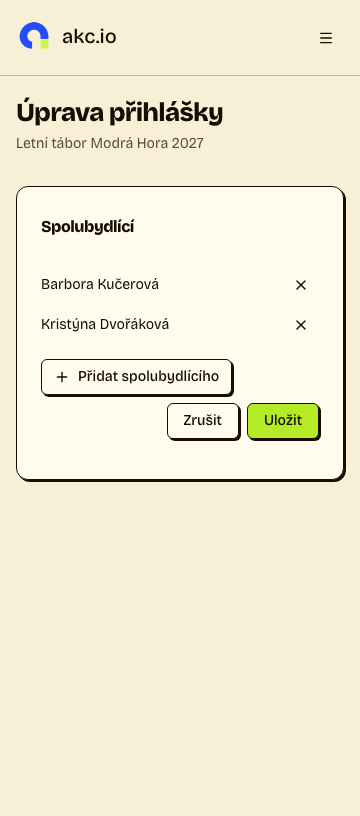
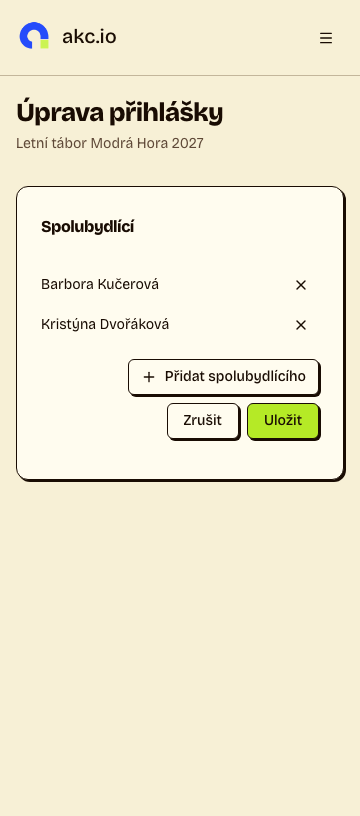
fix(registrations): keep the wrapped add button on the right (S4-05)
On a narrow screen "Přidat spolubydlícího" wraps above "Zrušit" and "Uložit"
and now aligns right with them. Mobile screenshot retaken.

Changed region(s): [[0.1222, 0.4289, 0.9167, 0.4902]]

diff --git a/apps/frontend/src/features/registrations/components/RoommateWishesCard.tsx b/apps/frontend/src/features/registrations/components/RoommateWishesCard.tsx
@@ -194,7 +194,8 @@ function WishesForm({ registrationId, data, selected, onChange, onDone }: Wishes
       {save.isError ? (
         <FormError message="Spolubydlící se nepodařilo uložit. Výběr zůstává, zkuste to prosím znovu." />
       ) : null}
-      <div className="flex flex-wrap items-center gap-2">
+      {/* Wrapped on a narrow screen, the add button keeps to the right like the others. */}
+      <div className="flex flex-wrap items-center justify-end gap-2">
         {data.candidates.length > 0 ? (
           <Button
             type="button"
